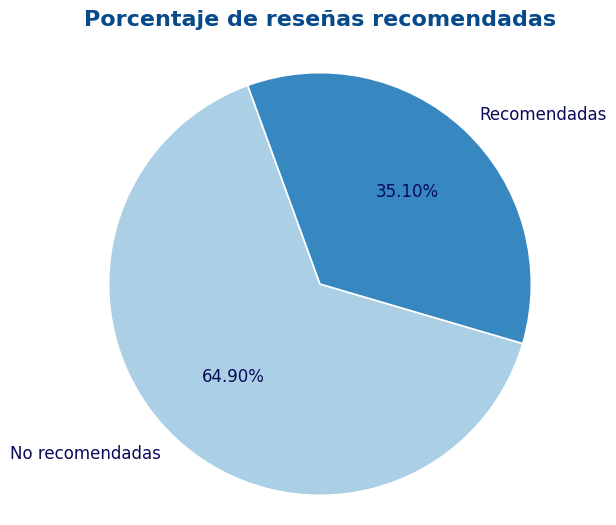
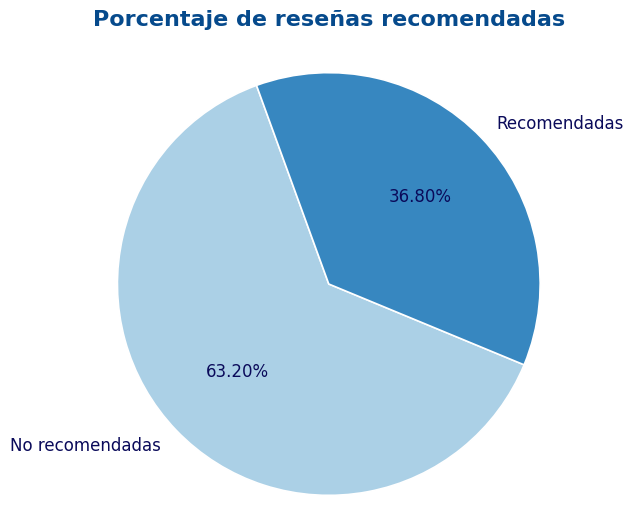
Update Readme

diff --git a/README.md b/README.md
@@ -18,11 +18,15 @@ El cual salió el 14 de noviembre de 2025.
 
 ## **Exploración y visualización de los datos**
 
-Hemos limitado el conjunto de datos a **10.000 reseñas** para evitar tiempos de carga largos al descargar los comentarios.
+Hemos limitado el conjunto de datos a **3000 reseñas** para evitar tiempos de carga largos al descargar los comentarios.
 
 ![Distribución de la longitud de las reseñas](/img/distribution_of_review_length.png)
 
 ![Porcentaje de reseñas recomendadas](/img/percentage_of_recommended_reviews.png)
+
+## **Matriz de confusión**
+
+![Matriz](/img/matriz.png)
 
 ## **Créditos**
 
